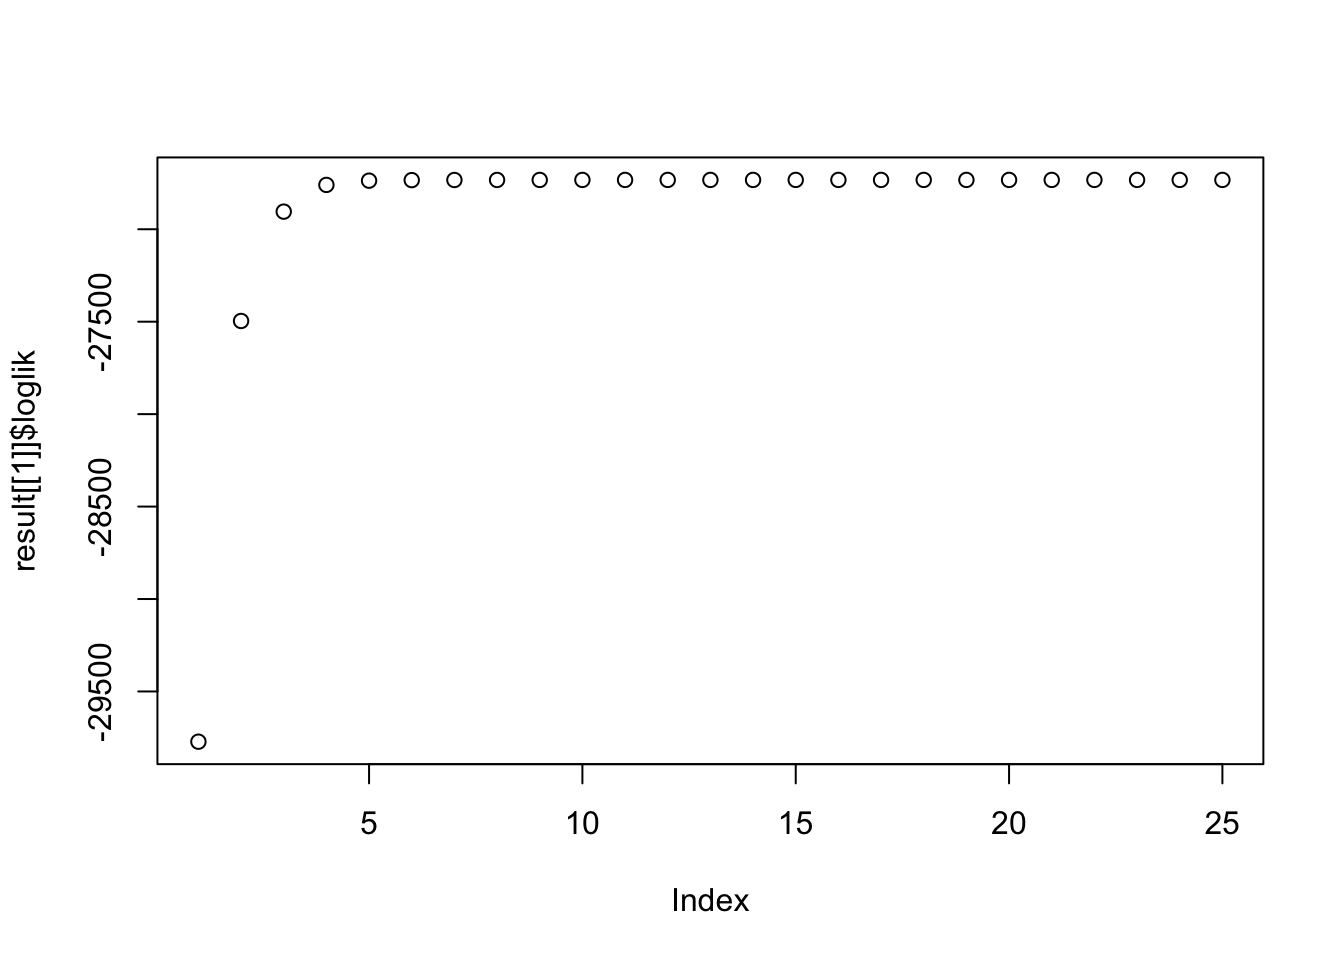
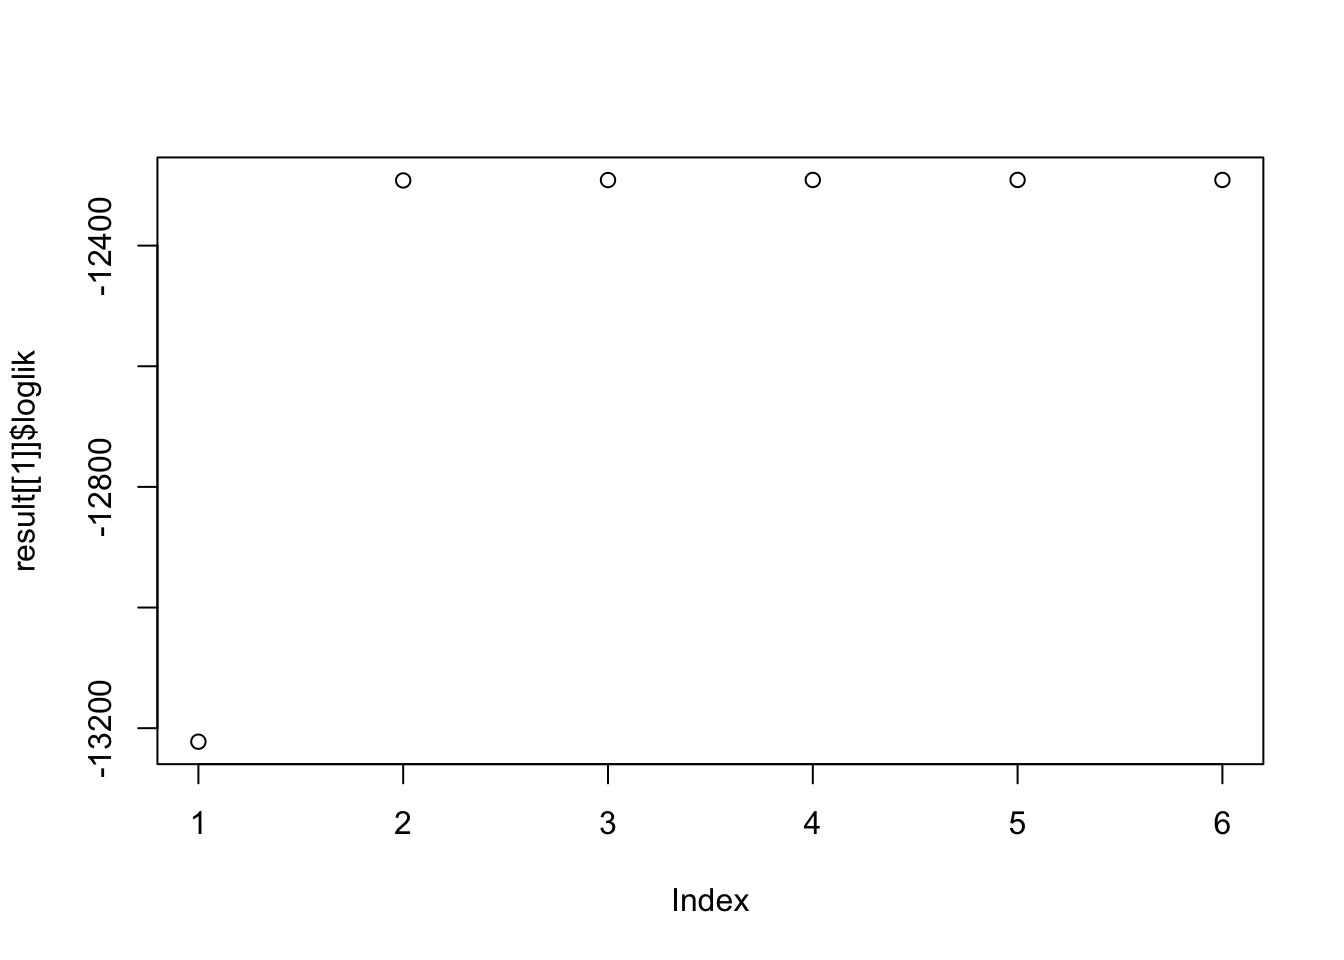
Build site.

diff --git a/docs/EstimateCorMaxEM2.html b/docs/EstimateCorMaxEM2.html
@@ -11,9 +11,8 @@
 
 <meta name="author" content="Yuxin Zou" />
 
-<meta name="date" content="2018-07-24" />
 
-<title>Estimate cor – max</title>
+<title>Estimate cor — MLE EM rho</title>
 
 <script src="site_libs/jquery-1.11.3/jquery.min.js"></script>
 <meta name="viewport" content="width=device-width, initial-scale=1" />
@@ -332,9 +331,9 @@ div.section {
 
 
 
-<h1 class="title toc-ignore">Estimate cor – max</h1>
+<h1 class="title toc-ignore">Estimate cor — MLE EM rho</h1>
 <h4 class="author"><em>Yuxin Zou</em></h4>
-<h4 class="date"><em>2018-07-24</em></h4>
+<h4 class="date"><em>2018-8-3</em></h4>
 
 </div>
 
@@ -344,39 +343,73 @@ div.section {
 <p><strong>Last updated:</strong> 2018-08-13</p>
 <pre class="r"><code>library(mashr)</code></pre>
 <pre><code>Loading required package: ashr</code></pre>
-<pre class="r"><code>source(&#39;../code/generateDataV.R&#39;)
-source(&#39;../code/estimate_cor.R&#39;)
-source(&#39;../code/summary.R&#39;)
+<pre class="r"><code>library(knitr)
 library(kableExtra)
-library(knitr)</code></pre>
+source(&#39;../code/estimate_cor.R&#39;)
+source(&#39;../code/generateDataV.R&#39;)
+source(&#39;../code/summary.R&#39;)</code></pre>
+<div id="em" class="section level1">
+<h1>EM</h1>
+<p>We use EM algorithm to update <code>\rho</code>.</p>
+<div id="e-step" class="section level2">
+<h2>E step</h2>
 <p><span class="math display">\[
-\left(\begin{matrix} \hat{x} \\ \hat{y} \end{matrix} \right) | \left(\begin{matrix} x \\ y \end{matrix} \right) \sim N(\left(\begin{matrix} \hat{x} \\ \hat{y} \end{matrix} \right) ; \left(\begin{matrix} x \\ y \end{matrix} \right), \left( \begin{matrix} 1 &amp; \rho \\ \rho &amp; 1 \end{matrix} \right))
-\]</span> <span class="math display">\[
-\left(\begin{matrix} x \\ y \end{matrix} \right) \sim \sum_{k=0}^{K} \pi_{k} N( \left(\begin{matrix} x \\ y \end{matrix} \right); 0, U_{k} )
-\]</span> <span class="math inline">\(\Rightarrow\)</span> <span class="math display">\[
-\left(\begin{matrix} \hat{x} \\ \hat{y} \end{matrix} \right) \sim \sum_{k=0}^{K} \pi_{k} N( \left(\begin{matrix} \hat{x} \\ \hat{y} \end{matrix} \right); 0, \left( \begin{matrix} 1 &amp; \rho \\ \rho &amp; 1 \end{matrix} \right) + U_{k} )
-\]</span> <span class="math display">\[
-\Sigma_{k} = \left( \begin{matrix} 1 &amp; \rho \\ \rho &amp; 1 \end{matrix} \right) + U_{k} = \left( \begin{matrix} 1 &amp; \rho \\ \rho &amp; 1 \end{matrix} \right) + \left( \begin{matrix} u_{k11} &amp; u_{k12} \\ u_{k21} &amp; u_{k22} \end{matrix} \right) = \left( \begin{matrix} 1+u_{k11} &amp; \rho+u_{k12} \\ \rho+u_{k21} &amp; 1+u_{k22} \end{matrix} \right)
-\]</span> Let <span class="math inline">\(\sigma_{k11} = \sqrt{1+u_{k11}}\)</span>, <span class="math inline">\(\sigma_{k22} = \sqrt{1+u_{k22}}\)</span>, <span class="math inline">\(\phi_{k}=\frac{\rho+u_{k12}}{\sigma_{k11}\sigma_{k22}}\)</span></p>
-<div id="mle" class="section level1">
-<h1>MLE</h1>
-<p>The loglikelihood is (with penalty) <span class="math display">\[
-l(\rho, \pi) = \sum_{i=1}^{n} \log \sum_{k=0}^{K} \pi_{k}N(x_{i}; 0, \Sigma_{k}) + \sum_{k=0}^{K} (\lambda_{k}-1) \log \pi_{k}
+P(\hat{B},B,Z|\rho, \pi) = \prod_{i=1}^{n} \prod_{k=0}^{K}\left[\pi_{k}N(\hat{b}_{i}; b_{i}, V)N(b_{i}; 0, U_{k})\right]^{\mathbb{I}(z_{i}=k)}
 \]</span></p>
-<p>The penalty on <span class="math inline">\(\pi\)</span> encourages over-estimation of <span class="math inline">\(\pi_{0}\)</span>, <span class="math inline">\(\lambda_{k}\geq 1\)</span>.</p>
 <p><span class="math display">\[
-l(\rho, \pi) = \sum_{i=1}^{n} \log \sum_{k=0}^{K} \pi_{k}\frac{1}{2\pi\sigma_{k11}\sigma_{k22}\sqrt{1-\phi_{k}^2}} \exp\left( -\frac{1}{2(1-\phi_{k}^2)}\left[ \frac{x_{i}^2}{\sigma_{k11}^2} + \frac{y_{i}^2}{\sigma_{k22}^2} - \frac{2\phi_{k}x_{i}y_{i}}{\sigma_{k11}\sigma_{k22}}\right]  \right) + \sum_{k=0}^{K} (\lambda_{k}-1) \log \pi_{k}
+\mathbb{E}_{Z,B|\hat{B}} \log P(\hat{B},B,Z|\rho, \pi) = \sum_{i=1}^{n} \sum_{k=0}^{K} P(z_{i}=k|\hat{b}_{i})\left[ \log \pi_{k} + \mathbb{E}_{B|\hat{B}}(\log N(\hat{b}_{i}; b_{i}, V)) + \mathbb{E}_{B|\hat{B}}(\log N(b_{i}; 0, U_{k})) \right]
 \]</span></p>
-<p><strong>Note:</strong> This probelm is convex with respect to <span class="math inline">\(\pi\)</span>. In terms of <span class="math inline">\(\rho\)</span>, the covenxity depends on the data.</p>
+<p><span class="math display">\[
+\begin{align*}
+\log N(\hat{b}_{i}; b_{i}, V) + \log N(b_{i}; 0, U_{k}) &amp;= -\frac{p}{2}\log 2\pi -\frac{1}{2}\log |V| - \frac{1}{2}(\hat{b}_{i}-b_{i})^{T}V^{-1}(\hat{b}_{i}-b_{i}) -\frac{p}{2}\log 2\pi -\frac{1}{2}\log |U_{k}| - \frac{1}{2}b_{i}^{T}U_{k}^{-1}b_{i} \\
+&amp;= -p\log 2\pi -\frac{1}{2}\log |U_{k}| -\frac{1}{2}\log |V| - \frac{1}{2}\hat{b}_{i}^{T}V^{-1}\hat{b}_{i} + \hat{b}_{i}^{T}V^{-1}b_{i} -\frac{1}{2}b_{i}^{T}V^{-1}b_{i} - \frac{1}{2}b_{i}^{T}U_{k}^{-1}b_{i} \\
+\mathbb{E}_{b_{i}|\hat{b}_{i}}\left[ \log N(\hat{b}_{i}; b_{i}, V) + \log N(b_{i}; 0, U_{k}) \right] &amp;= -p\log 2\pi -\frac{1}{2}\log |U_{k}| -\frac{1}{2}\log |V| - \frac{1}{2}\hat{b}_{i}^{T}V^{-1}\hat{b}_{i} + \hat{b}_{i}^{T}V^{-1}\mathbb{E}(b_{i}|\hat{b}_{i}) -\frac{1}{2}tr\left(V^{-1}\mathbb{E}(b_{i}b_{i}^{T}|\hat{b}_{i}) \right) - \frac{1}{2}tr\left(U_{k}^{-1}\mathbb{E}(b_{i}b_{i}^{T}|\hat{b}_{i}) \right)
+\end{align*}
+\]</span> <span class="math display">\[
+V = \left( \begin{matrix}1 &amp; \rho \\ \rho &amp; 1 \end{matrix} \right)
+\]</span> Let <span class="math inline">\(\mu_{i} = \mathbb{E}(b_{i}|\hat{b}_{i})\)</span> <span class="math display">\[
+\begin{align*}
+\mathbb{E}_{b_{i}|\hat{b}_{i}}\left[ \log N(\hat{b}_{i}; b_{i}, V) + \log N(b_{i}; 0, U_{k}) \right] &amp;= -2\log 2\pi -\frac{1}{2}\log |U_{k}| -\frac{1}{2}\log(1-\rho^2) - \frac{1}{2(1-\rho^2)}\left(\hat{b}_{i1}^2 + \hat{b}_{i2}^2 -2\hat{b}_{i1} \mu_{i1} -2\hat{b}_{i2} \mu_{i2} + \mathbb{E}(b_{i1}^2|\hat{b}_{i}) + \mathbb{E}(b_{i2}^2|\hat{b}_{i}) - 2\hat{b}_{i1}\hat{b}_{i2}\rho + 2 \hat{b}_{i1}\mu_{i2}\rho +2\hat{b}_{i2}\mu_{i1}\rho - 2\rho\mathbb{E}(b_{i1}b_{i2}|\hat{b}_{i}) \right) -  \frac{1}{2}tr\left(U_{k}^{-1}\mathbb{E}(b_{i}b_{i}^{T}|\hat{b}_{i}) \right)
+\end{align*}
+\]</span></p>
+<p><span class="math display">\[
+\gamma_{Z_{i}}(k) = P(z_{i}=k|X_{i}) = \frac{\pi_{k}N(x_{i}; 0, V+U_{k})}{\sum_{k&#39;=0}^{K}\pi_{k&#39;}N(x_{i}; 0, V + U_{k&#39;})}
+\]</span></p>
+</div>
+<div id="m-step" class="section level2">
+<h2>M step</h2>
+<p><span class="math inline">\(V\)</span>: <span class="math display">\[
+\begin{align*}
+f(V^{-1}) = \sum_{i=1}^{n} \sum_{k=0}^{K} \gamma_{Z_{i}}(k)\left[ -p\log 2\pi -\frac{1}{2}\log |U_{k}| -\frac{1}{2}\log |V| - \frac{1}{2}\hat{b}_{i}^{T}V^{-1}\hat{b}_{i} + \hat{b}_{i}^{T}V^{-1}\mathbb{E}(b_{i}|\hat{b}_{i}) -\frac{1}{2}tr\left(V^{-1}\mathbb{E}(b_{i}b_{i}^{T}|\hat{b}_{i}) \right) - \frac{1}{2}tr\left(U_{k}^{-1}\mathbb{E}(b_{i}b_{i}^{T}|\hat{b}_{i}) \right) \right]
+\end{align*}
+\]</span></p>
+<p><span class="math display">\[
+\begin{align*}
+f(V^{-1})&#39; &amp;= \sum_{i=1}^{n} \sum_{k=0}^{K} \gamma_{Z_{i}}(k)\left[ \frac{1}{2}V - \frac{1}{2}\hat{b}_{i}\hat{b}_{i}^{T} + \mathbb{E}(b_{i}|\hat{b}_{i})\hat{b}_{i}^{T} - \frac{1}{2} \mathbb{E}(b_{i}b_{i}^{T}|\hat{b}_{i}) \right] = 0 \\
+\frac{1}{2}Vn &amp;= \sum_{i=1}^{n} \sum_{k=0}^{K} \gamma_{Z_{i}}(k)\left[\frac{1}{2}\hat{b}_{i}\hat{b}_{i}^{T} - \mathbb{E}(b_{i}|\hat{b}_{i})\hat{b}_{i}^{T} + \frac{1}{2} \mathbb{E}(b_{i}b_{i}^{T}|\hat{b}_{i}) \right] \\
+\hat{V} &amp;= \frac{1}{n} \sum_{i=1}^{n} \left[\hat{b}_{i}\hat{b}_{i}^{T} - 2\mathbb{E}(b_{i}|\hat{b}_{i})\hat{b}_{i}^{T} + \mathbb{E}(b_{i}b_{i}^{T}|\hat{b}_{i}) \right]
+\end{align*}
+\]</span></p>
+<p><span class="math inline">\(\rho\)</span>: $$ f() = <em>{i=1}^{n} </em>{k=1}^{K} <em>{Z</em>{i}}(k)</p>
+<p>$$</p>
+<p><span class="math display">\[
+\begin{align*}
+f(\rho)&#39; = \sum_{i=1}^{n} \sum_{k=1}^{K} \gamma_{Z_{i}}(k)\left[ \frac{\rho}{1-\rho^2} -\frac{\rho}{(1-\rho^2)^2}\left( \hat{b}_{i1}^2 + \hat{b}_{i2}^2 -2\hat{b}_{i1} \mu_{i1} -2\hat{b}_{i2} \mu_{i2} + \mathbb{E}(b_{i1}^2|\hat{b}_{i}) + \mathbb{E}(b_{i2}^2|\hat{b}_{i}) \right) -\frac{\rho^2+1}{(1-\rho^2)^2}\left( -\hat{b}_{i1}\hat{b}_{i2} + \hat{b}_{i1}\mu_{i2} +\hat{b}_{i2}\mu_{i1} - \mathbb{E}(b_{i1}b_{i2}|\hat{b}_{i}) \right) \right] &amp;= 0 \\
+\rho(1-\rho^2)n - \rho \sum_{i=1}^{n} \sum_{k=1}^{K} \gamma_{Z_{i}}(k) \left( \hat{b}_{i1}^2 + \hat{b}_{i2}^2 -2\hat{b}_{i1} \mu_{i1} -2\hat{b}_{i2} \mu_{i2} + \mathbb{E}(b_{i1}^2|\hat{b}_{i}) + \mathbb{E}(b_{i2}^2|\hat{b}_{i}) \right) - (\rho^2 + 1) \sum_{i=1}^{n} \sum_{k=1}^{K} \gamma_{Z_{i}}(k)\left( -\hat{b}_{i1}\hat{b}_{i2} + \hat{b}_{i1}\mu_{i2} +\hat{b}_{i2}\mu_{i1} - \mathbb{E}(b_{i1}b_{i2}|\hat{b}_{i}) \right) &amp;= 0 \\
+-n\rho^{3} - \rho^2 \sum_{i=1}^{n} \left( -\hat{b}_{i1}\hat{b}_{i2} + \hat{b}_{i1}\mu_{i2} +\hat{b}_{i2}\mu_{i1} - \mathbb{E}(b_{i1}b_{i2}|\hat{b}_{i}) \right) - \rho(\sum_{i=1}^{n} \left( \hat{b}_{i1}^2 + \hat{b}_{i2}^2 -2\hat{b}_{i1} \mu_{i1} -2\hat{b}_{i2} \mu_{i2} + \mathbb{E}(b_{i1}^2|\hat{b}_{i}) + \mathbb{E}(b_{i2}^2|\hat{b}_{i}) \right) - n) - \sum_{i=1}^{n} \left( -\hat{b}_{i1}\hat{b}_{i2} + \hat{b}_{i1}\mu_{i2} +\hat{b}_{i2}\mu_{i1} - \mathbb{E}(b_{i1}b_{i2}|\hat{b}_{i}) \right) &amp;= 0
+\end{align*}
+\]</span></p>
+<p>The polynomial has either 1 or 3 real roots in (-1, 1).</p>
 <p>Algorithm:</p>
-<pre class="text"><code>Input: X, init_pi, init_rho, Ulist
+<pre class="r"><code>Input: X, Ulist, init_rho
 Compute loglikelihood
 delta = 1
 while delta &gt; tol
-  Given pi, estimate rho by max loglikelihood (optim function)
-  Given rho, estimate pi by max loglikelihood (convex problem)
+  Given rho, Estimate pi using convex method (current mash method)
+  M step: update rho: find all roots of polynomial, if it has three real roots, choose the one with higher loglikelihood.
   Compute loglikelihood
   Update delta</code></pre>
+</div>
 </div>
 <div id="data" class="section level1">
 <h1>Data</h1>
@@ -405,29 +438,23 @@ U.c = cov_canonical(m.data)
 grid = mashr:::autoselect_grid(m.data, sqrt(2))
 Ulist = mashr:::normalize_Ulist(U.c)
 xUlist = mashr:::expand_cov(Ulist,grid,usepointmass =  TRUE)
-result &lt;- optimize_pi_rho_times(data$Bhat, xUlist, init_rho = c(-0.7,0,0.7))</code></pre>
-<pre><code>Warning in REBayes::KWDual(A, rep(1, k), normalize(w), control = control): estimated mixing distribution has some negative values:
-               consider reducing rtol</code></pre>
-<pre><code>Warning in mixIP(matrix_lik = structure(c(0.0627889120852815,
-0.0114523005348735, : Optimization step yields mixture weights that are
-either too small, or negative; weights have been corrected and renormalized
-after the optimization.</code></pre>
-<pre class="r"><code>plot(result[[1]]$loglik)</code></pre>
-<p><img src="figure/EstimateCorMax.Rmd/unnamed-chunk-4-1.png" width="672" style="display: block; margin: auto;" /> The estimated <span class="math inline">\(\rho\)</span> is 0.6124039.</p>
-<pre class="r"><code>m.data.mle = mash_set_data(data$Bhat, data$Shat, V = matrix(c(1,result[[1]]$rho,result[[1]]$rho,1),2,2))
-U.c = cov_canonical(m.data.mle)
-m.mle = mash(m.data.mle, U.c, verbose= FALSE)
+result &lt;- mixture.EM2.times(data$Bhat, xUlist, init_rho = c(-0.7,0,0.7), grid=1)
+plot(result$result$log_liks)</code></pre>
+<p><img src="figure/EstimateCorMaxEM2.Rmd/unnamed-chunk-4-1.png" width="672" style="display: block; margin: auto;" /> The estimated <span class="math inline">\(\rho\)</span> is 0.5576293.</p>
+<pre class="r"><code>m.data.em = mash_set_data(data$Bhat, data$Shat, V = matrix(c(1,result[[1]]$rho,result[[1]]$rho,1),2,2))
+U.c = cov_canonical(m.data.em)
+m.em = mash(m.data.em, U.c, verbose= FALSE)
 null.ind = which(apply(data$B,1,sum) == 0)</code></pre>
-<p>The log likelihood is -1.23017710^{4}. There are 55 significant samples, 2 false positives. The RRMSE is 0.5964282.</p>
+<p>The log likelihood is -1.230210610^{4}. There are 37 significant samples, 1 false positives. The RRMSE is 0.5871084.</p>
 <p>The estimated <code>pi</code> is</p>
-<pre class="r"><code>barplot(get_estimated_pi(m.mle), las=2, cex.names = 0.7, main=&#39;OverEst&#39;, ylim=c(0,0.8))</code></pre>
-<p><img src="figure/EstimateCorMax.Rmd/unnamed-chunk-6-1.png" width="672" style="display: block; margin: auto;" /></p>
+<pre class="r"><code>barplot(get_estimated_pi(m.em), las=2, cex.names = 0.7, main=&#39;OverEst&#39;, ylim=c(0,0.8))</code></pre>
+<p><img src="figure/EstimateCorMaxEM2.Rmd/unnamed-chunk-6-1.png" width="672" style="display: block; margin: auto;" /></p>
 <p>The ROC curve:</p>
 <pre class="r"><code>m.data.correct = mash_set_data(data$Bhat, data$Shat, V=Sigma)
 m.correct = mash(m.data.correct, U.c, verbose = FALSE)
 m.correct.seq = ROC.table(data$B, m.correct)
-m.mle.seq = ROC.table(data$B, m.mle)</code></pre>
-<p><img src="figure/EstimateCorMax.Rmd/unnamed-chunk-8-1.png" width="672" style="display: block; margin: auto;" /></p>
+m.em.seq = ROC.table(data$B, m.em)</code></pre>
+<p><img src="figure/EstimateCorMaxEM2.Rmd/unnamed-chunk-8-1.png" width="672" style="display: block; margin: auto;" /></p>
 </div>
 <div id="session-information" class="section level1">
 <h1>Session information</h1>
@@ -448,7 +475,7 @@ attached base packages:
 [1] stats     graphics  grDevices utils     datasets  methods   base     
 
 other attached packages:
-[1] knitr_1.20       kableExtra_0.9.0 mashr_0.2-11     ashr_2.2-10     
+[1] kableExtra_0.9.0 knitr_1.20       mashr_0.2-11     ashr_2.2-10     
 
 loaded via a namespace (and not attached):
  [1] Rcpp_0.12.18      compiler_3.5.1    pillar_1.3.0     

diff --git a/docs/EstimateCor.html b/docs/EstimateCor.html
@@ -539,9 +539,57 @@ m.V1by1.seq = ROC.table(data$B, m.V1by1)
 m.correct.seq = ROC.table(data$B, m.correct)</code></pre>
 <p><img src="figure/EstimateCor.Rmd/unnamed-chunk-12-1.png" width="672" style="display: block; margin: auto;" /></p>
 <p>Comparing accuracy</p>
-<pre class="r"><code>rrmse = RRMSE(data$B, data$Bhat, list(m.I, m.V, m.V1by1, m.correct, m.Vo))
-barplot(rrmse, ylim=c(0,(1+max(rrmse))/2), names.arg = c(&#39;Identity&#39;,&#39;V.trun&#39;,&#39;V.1by1&#39;,&#39;V.true&#39;,&#39;V.over&#39;), las=2, cex.names = 0.7, main=&#39;RRMSE&#39;)</code></pre>
-<p><img src="figure/EstimateCor.Rmd/unnamed-chunk-13-1.png" width="672" style="display: block; margin: auto;" /></p>
+<pre class="r"><code>rrmse = rbind(RRMSE(data$B, data$Bhat, list(m.I, m.V, m.V1by1, m.correct, m.Vo)))
+colnames(rrmse) = c(&#39;Identity&#39;,&#39;V.trun&#39;,&#39;V.1by1&#39;,&#39;V.true&#39;,&#39;V.over&#39;)
+row.names(rrmse) = &#39;RRMSE&#39;
+rrmse %&gt;% kable() %&gt;% kable_styling()</code></pre>
+<table class="table" style="margin-left: auto; margin-right: auto;">
+<thead>
+<tr>
+<th style="text-align:left;">
+</th>
+<th style="text-align:right;">
+Identity
+</th>
+<th style="text-align:right;">
+V.trun
+</th>
+<th style="text-align:right;">
+V.1by1
+</th>
+<th style="text-align:right;">
+V.true
+</th>
+<th style="text-align:right;">
+V.over
+</th>
+</tr>
+</thead>
+<tbody>
+<tr>
+<td style="text-align:left;">
+RRMSE
+</td>
+<td style="text-align:right;">
+0.6522463
+</td>
+<td style="text-align:right;">
+0.5925754
+</td>
+<td style="text-align:right;">
+0.5811472
+</td>
+<td style="text-align:right;">
+0.5817699
+</td>
+<td style="text-align:right;">
+0.6052702
+</td>
+</tr>
+</tbody>
+</table>
+<pre class="r"><code>barplot(rrmse, ylim=c(0,(1+max(rrmse))/2), names.arg = c(&#39;Identity&#39;,&#39;V.trun&#39;,&#39;V.1by1&#39;,&#39;V.true&#39;,&#39;V.over&#39;), las=2, cex.names = 0.7, main=&#39;RRMSE&#39;)</code></pre>
+<p><img src="figure/EstimateCor.Rmd/unnamed-chunk-14-1.png" width="672" style="display: block; margin: auto;" /></p>
 <div id="solution-mle" class="section level1">
 <h1>Solution: MLE</h1>
 <div id="k1" class="section level2">
@@ -566,7 +614,7 @@ l(\rho)&#39;&#39; &amp;= \frac{n(\rho^2+1)}{(1-\rho^2)^2} - \frac{1}{2}\left( \f
 <p><strong>The log likelihood is not a concave function in general.</strong> The score function has either 1 or 3 real solutions.</p>
 <p>Kendall and Stuart (1979) noted that at least one of the roots is real and lies in the interval [−1, 1]. However, it is possible that all three roots are real and in the admissible interval, in which case the likelihood can be evaluated at each root to determine the true maximum likelihood estimate.</p>
 <p>I simulate the data with <span class="math inline">\(\rho=0.6\)</span> and plot the loglikelihood function:</p>
-<p><img src="figure/EstimateCor.Rmd/unnamed-chunk-14-1.png" width="672" style="display: block; margin: auto;" /></p>
+<p><img src="figure/EstimateCor.Rmd/unnamed-chunk-15-1.png" width="672" style="display: block; margin: auto;" /></p>
 <p><span class="math inline">\(l(\rho)&#39;\)</span> has one real solution</p>
 <pre class="r"><code>polyroot(c(- sum(data$Bhat[,1]*data$Bhat[,2]),  - (n - sum(data$Bhat[,1]^2 + data$Bhat[,2]^2)), - sum(data$Bhat[,1]*data$Bhat[,2]), n))</code></pre>
 <pre><code>[1] 0.6193031+0.000000i 0.0058209+1.009339i 0.0058209-1.009339i</code></pre>
